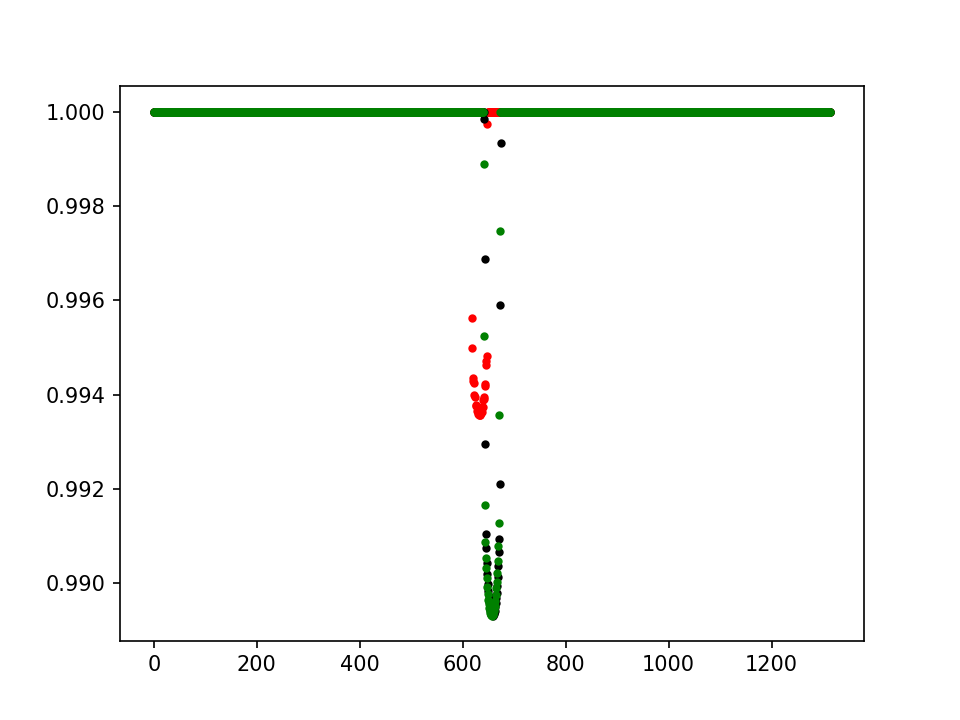
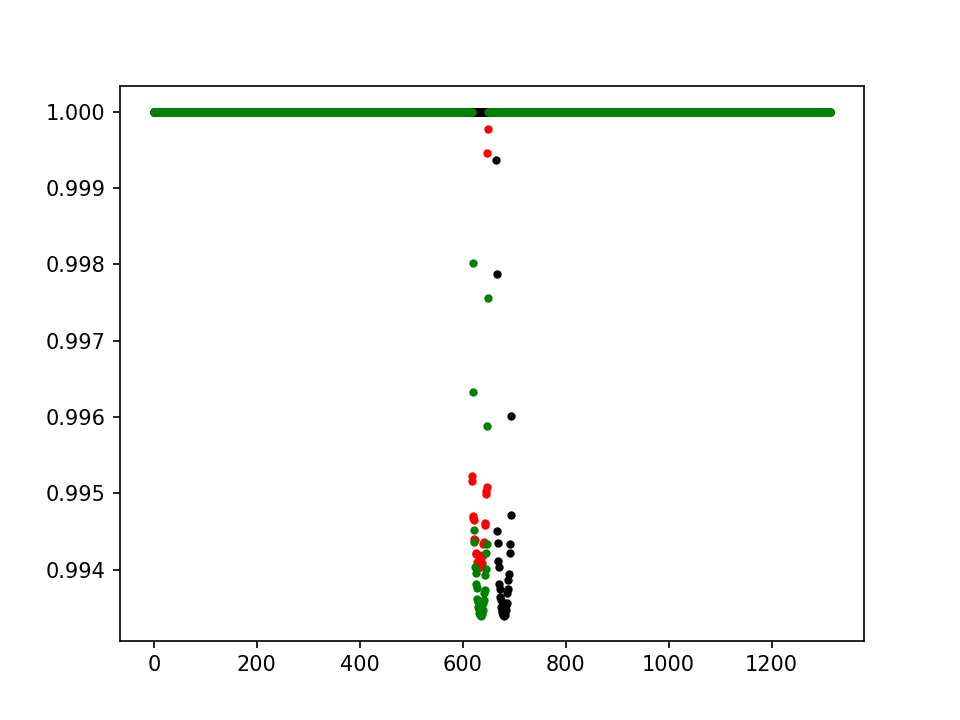
green plot still not lining up

diff --git a/Models.py b/Models.py
@@ -134,8 +134,8 @@ class CNN2(nn.Module):
                        rp=truepredRP,
                        a=truepredARS,
                        P=truepredP,
-                       t0 = truepredP*0.5)
-
+                       t0 = truepredP*0.5) #could be a tm() issue?
+        # pdb.set_trace()
         delta = data - flux.unsqueeze(1).float() ##residuals
         truedelta = data - trueflux.unsqueeze(1).float()
 
@@ -147,7 +147,7 @@ class CNN2(nn.Module):
         h = self.drp(self.relu(self.fc1_res(h)))
         h = self.drp(self.relu(self.fc2_res(h)))
         h = self.drp(self.relu(self.fc3_res(h)))
-        h = self.sigm(self.fc4_res(h)) ## final prediction
+        h = self.sigm(self.fc4_res(h)) ## final prediction - linear function/relu on predicted params, sigm can cut off the data - transit param is more regression than classification
         return h, returnedprms, delta, flux, data, p_time_new2, trueflux
     
 class CNN3(nn.Module):

diff --git a/train.py b/train.py
@@ -37,6 +37,7 @@ trueparams = np.vstack([trueparams, trueparams])
 X = X.reshape((X.shape[0], X.shape[1], 1))
 y = np.hstack([np.ones(len(positives)), np.zeros(len(negatives))])
 
+
 # test
 noiseT = 1/4
 toleranceT = .25
@@ -94,7 +95,7 @@ for epoch in range(nb_epoch):
 #             loss = (res**2).mean((1, 2))
 #             loss = loss * batch_y
 #             loss = loss.mean()
-            loss = ((prms-batch_tp)**2).mean()
+            loss = ((prms-batch_tp)**2).mean() 
     
         #((prms-batch_tp)**2).mean()
 #             print("params: " , prms[:3])
